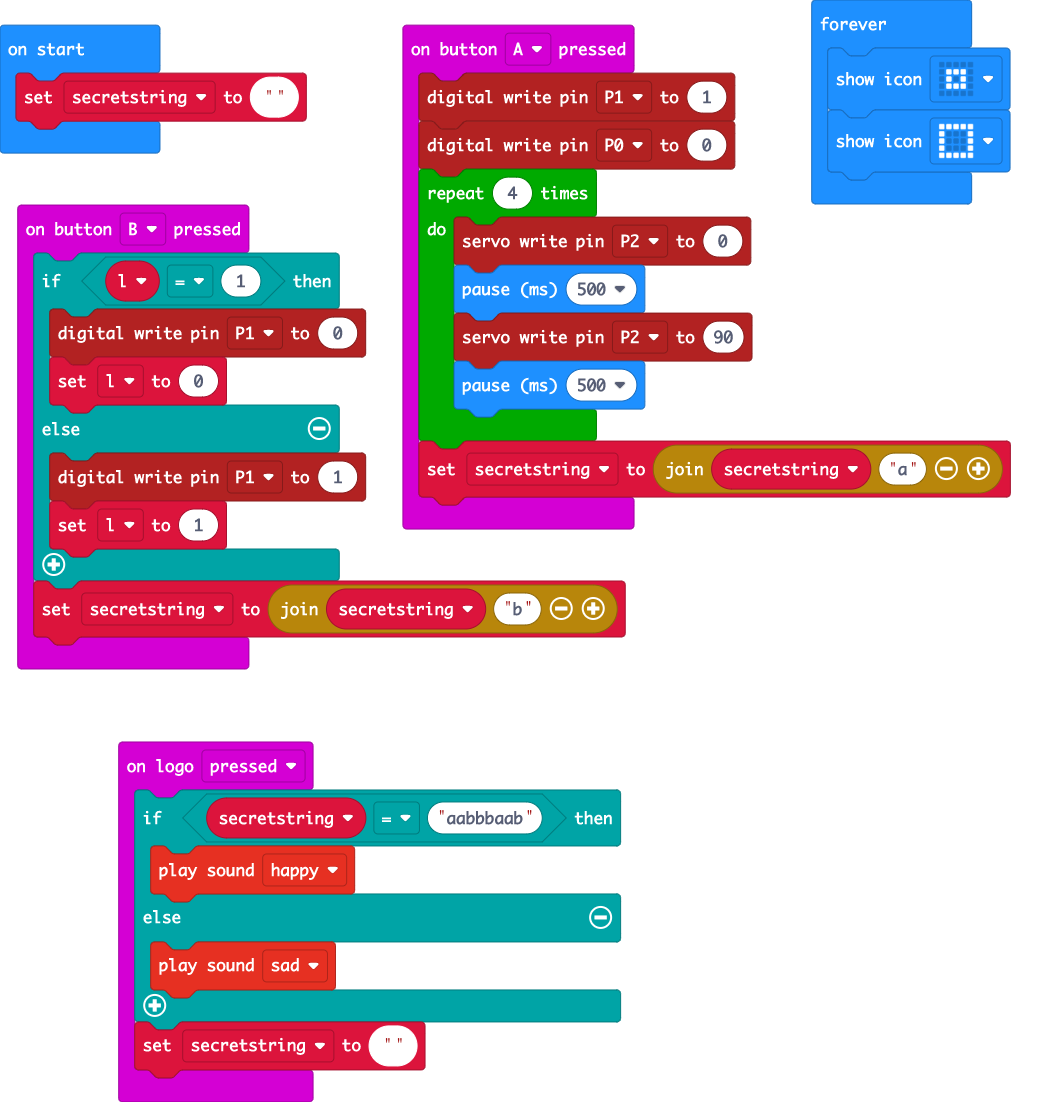
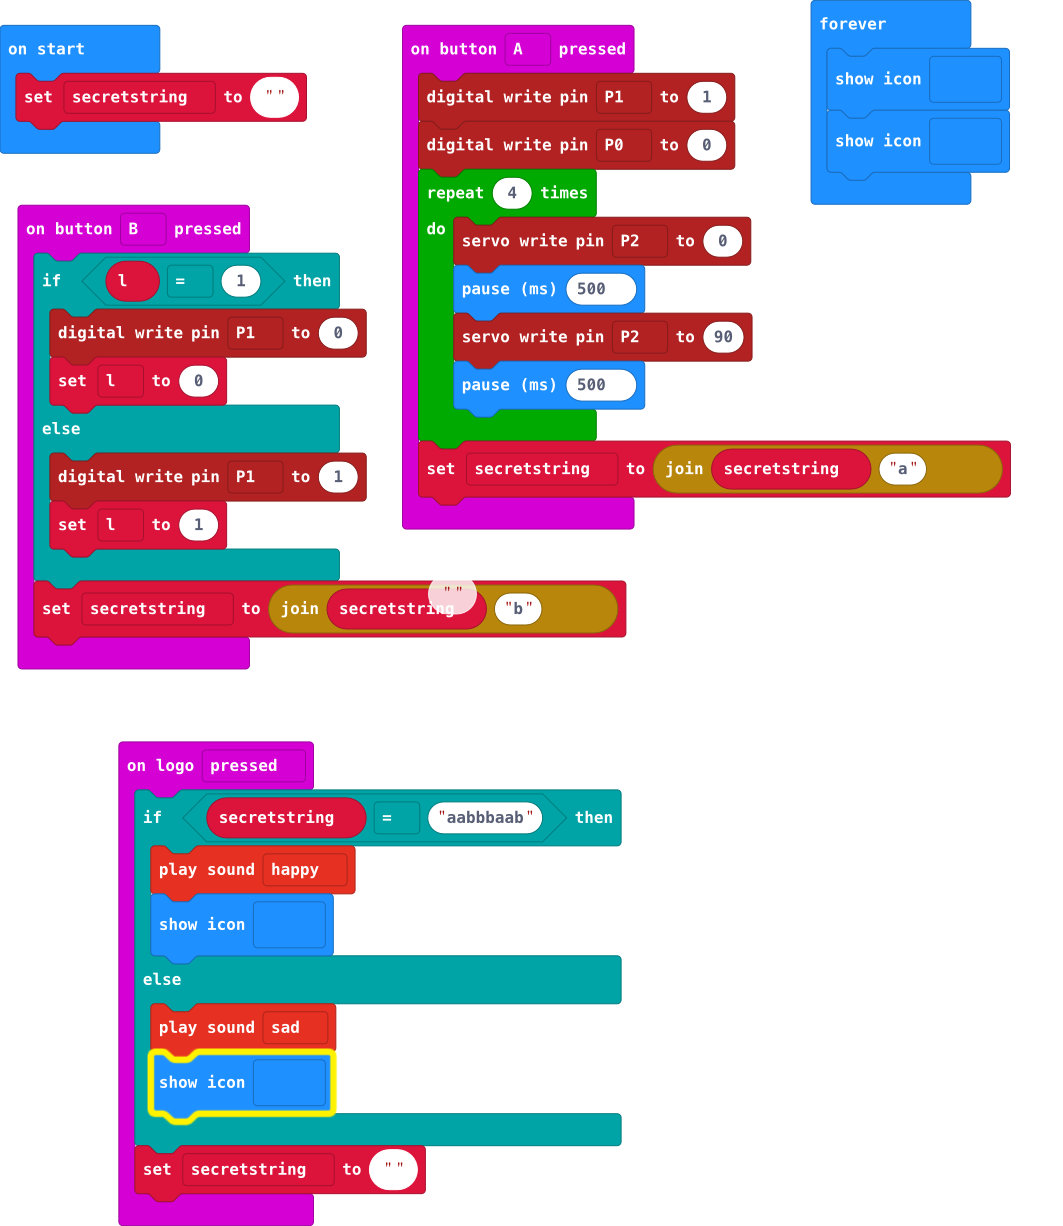
Update main.blocks, main.ts

diff --git a/main.ts b/main.ts
@@ -22,8 +22,10 @@ input.onButtonPressed(Button.B, function () {
 input.onLogoEvent(TouchButtonEvent.Pressed, function () {
     if (secretstring == "aabbbaab") {
         soundExpression.happy.play()
+        basic.showIcon(IconNames.Yes)
     } else {
         soundExpression.sad.play()
+        basic.showIcon(IconNames.No)
     }
     secretstring = ""
 })
